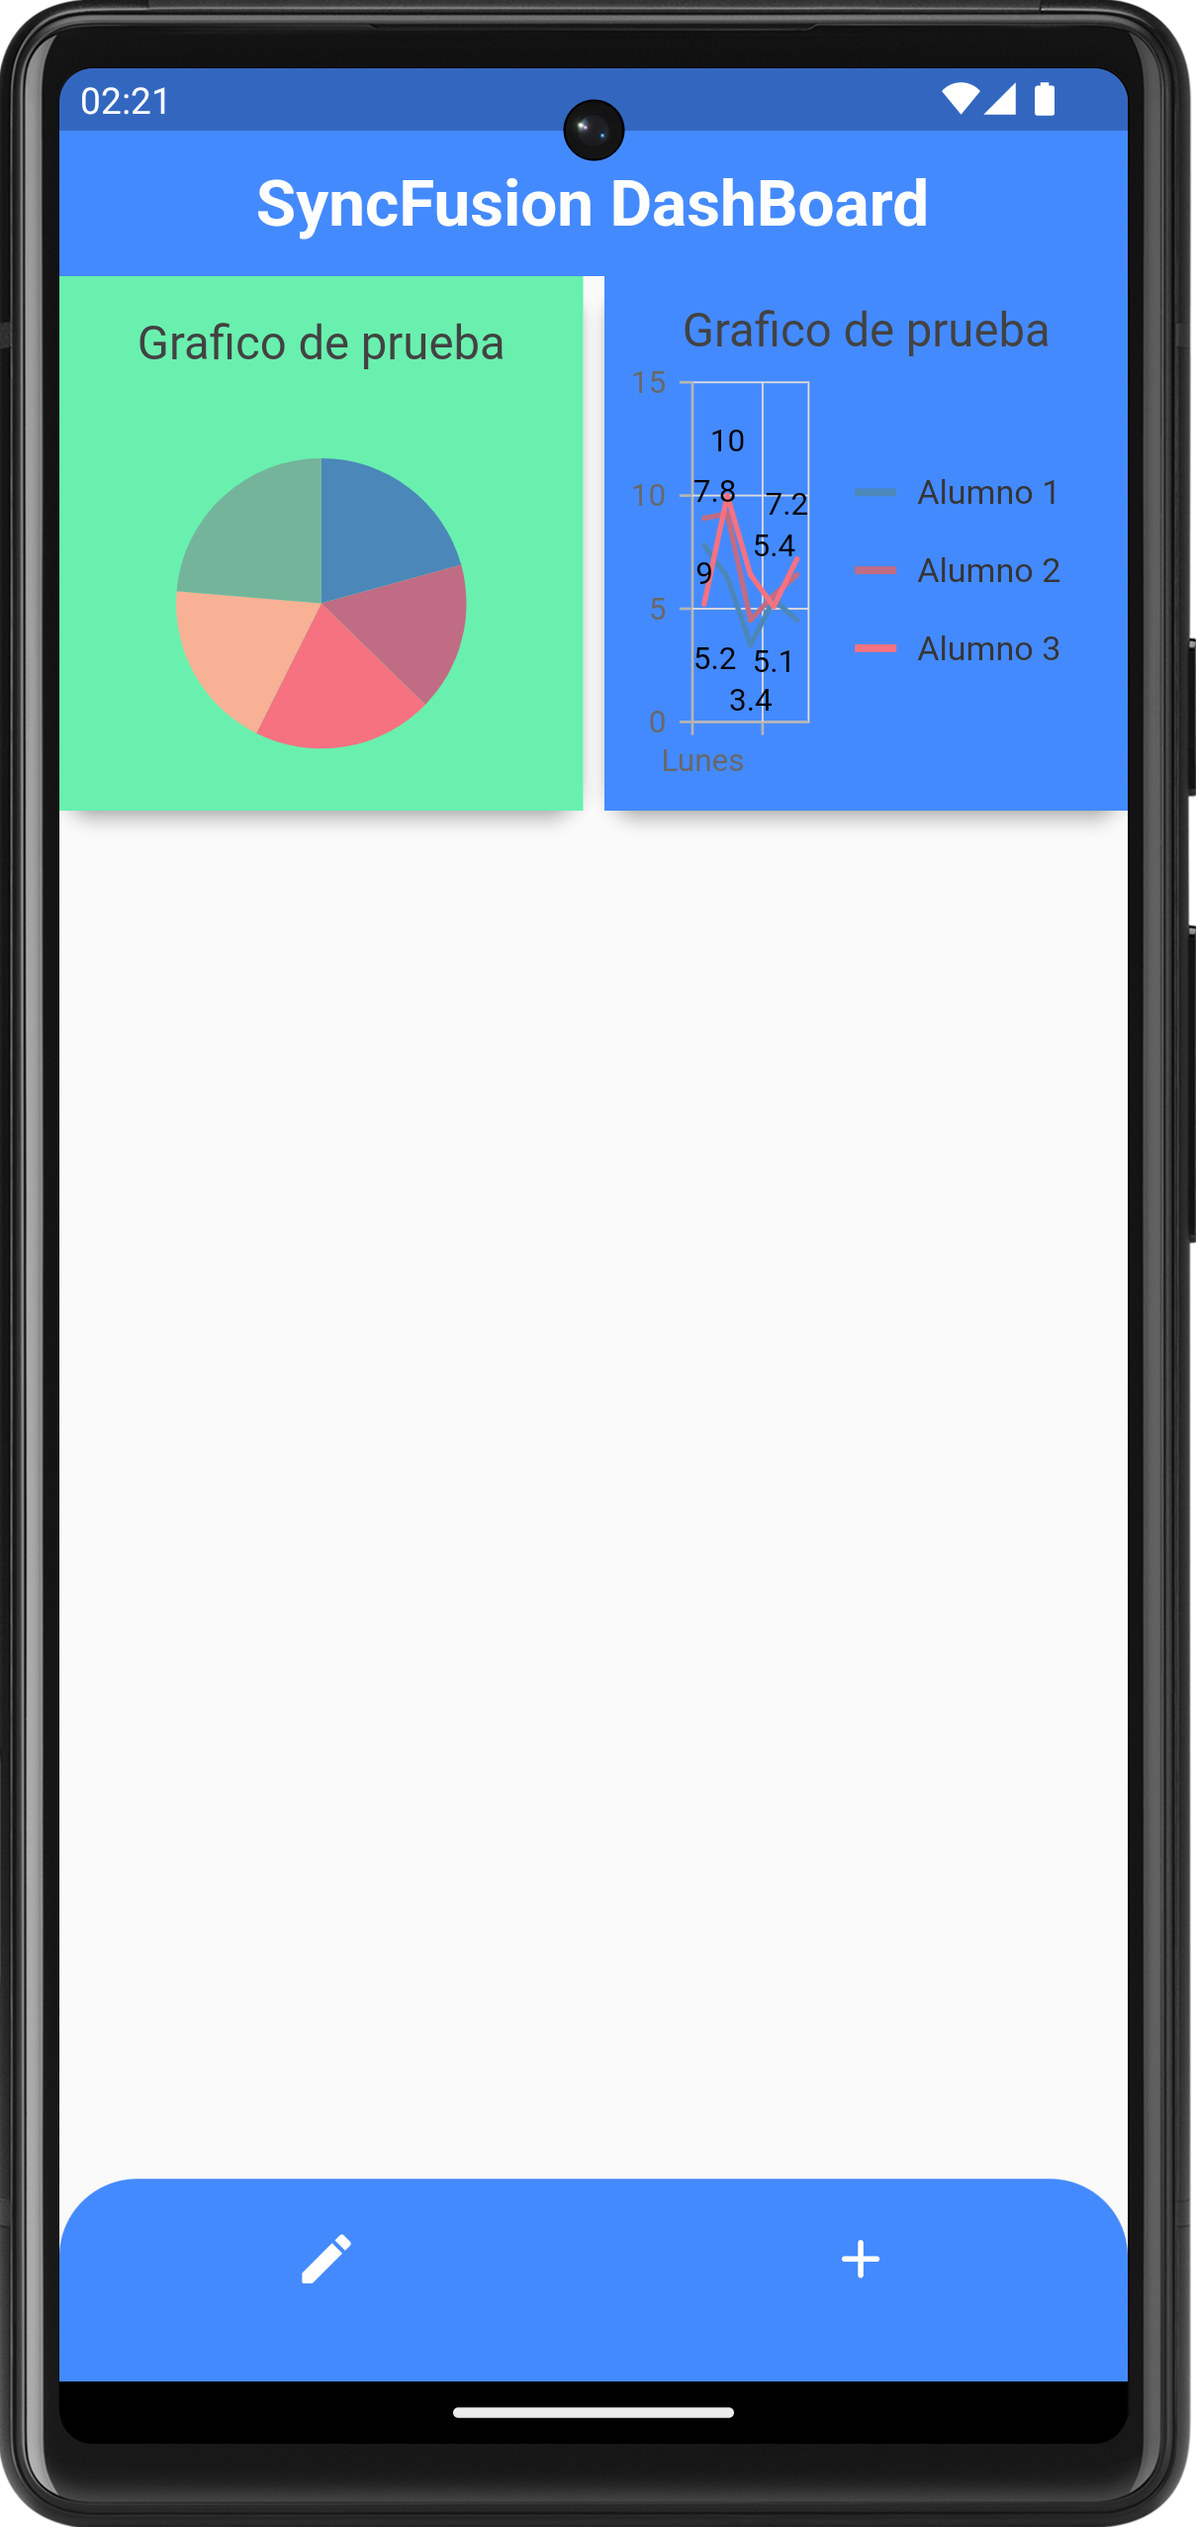
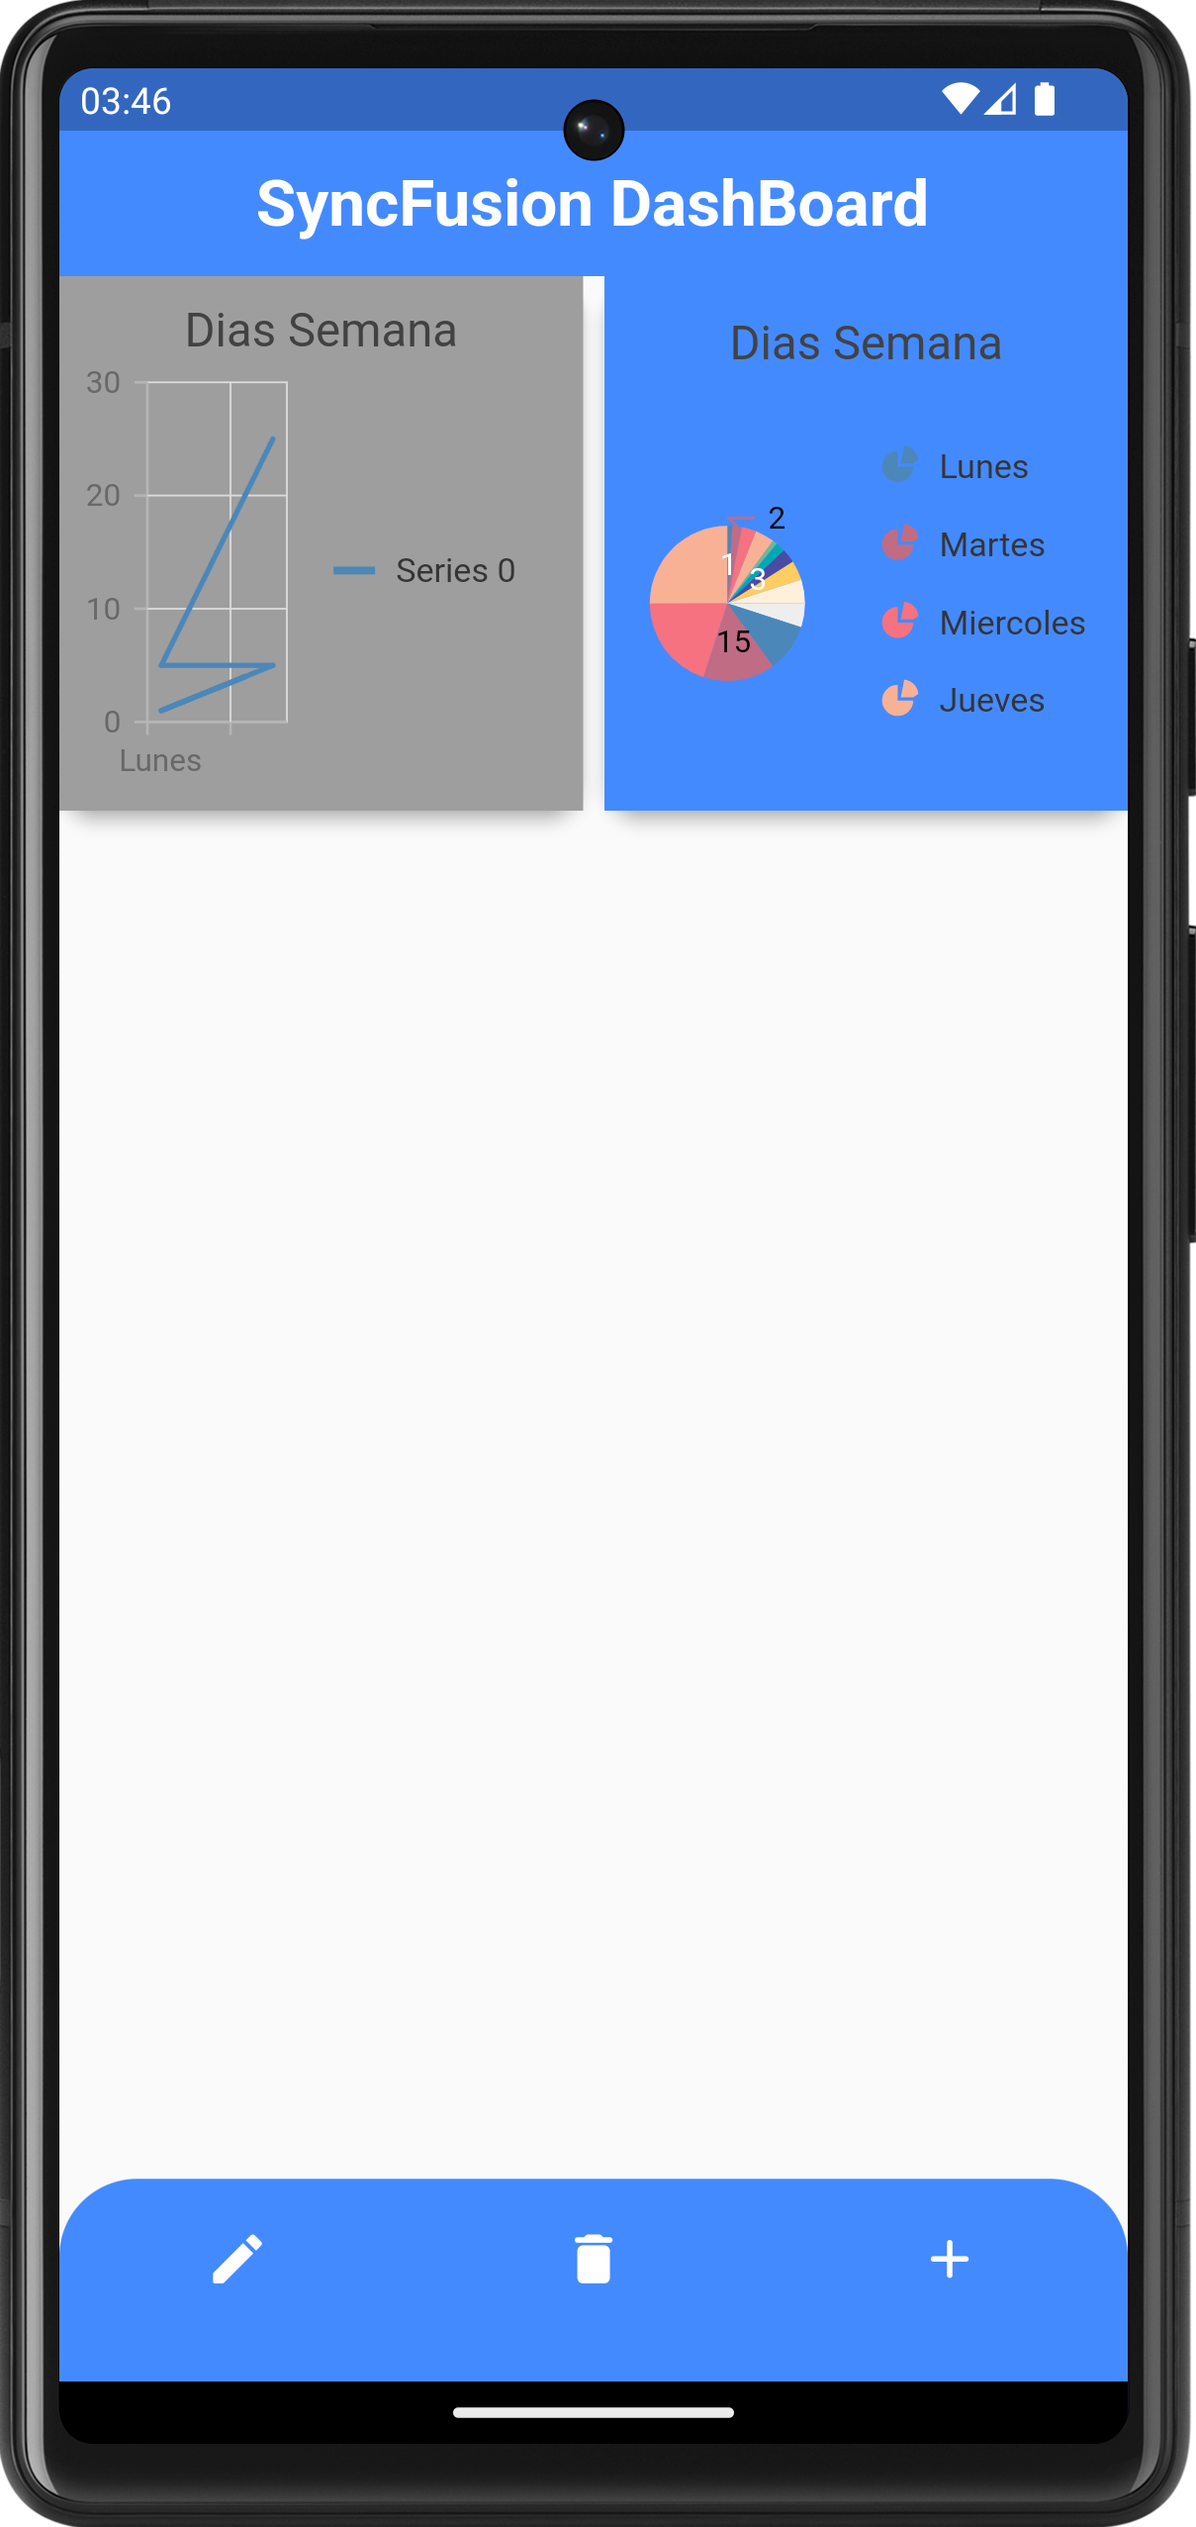
Initial support for creating widgets with custom data

diff --git a/lib/view/dashboard/widgets/propertiesDialog.dart b/lib/view/dashboard/widgets/propertiesDialog.dart
@@ -286,7 +286,126 @@ class PropertiesDialog extends StatelessWidget{
                           ),
                         ),
 
+                        Container(
+                          width: double.maxFinite,
+                          height: height * 0.42,
+                          margin: EdgeInsets.only(top: height * 0.02, left: width * 0.05, right: width * 0.05),
+                          decoration: BoxDecoration(
+                              color: Colors.white.withOpacity(0.4),
+                              borderRadius: BorderRadius.circular(30)
+                          ),
+                          child: Column(
+                            children: [
+                              // Title
+                              SizedBox(height: height * 0.01,),
+                              const Text("Añadir Elemento", style: TextStyle(color: Colors.black, fontSize: 25, fontWeight: FontWeight.bold),),
+                              SizedBox(height: height * 0.02,),
+                              Row(
+                                children: [
+                                  // Left - x elements
+                                  SizedBox(
+                                    width: width * 0.31,
+                                    height: height * 0.2,
+                                    child : ListView.builder(
+                                      itemCount: viewModel.xElements.length,
+                                      itemBuilder: (context, index){
+                                        return Container(
+                                          width: width * 0.31,
+                                          height: height * 0.07,
+                                          margin: EdgeInsets.only(left: width * 0.025, right: width * 0.05),
+                                          child: TextField(
+                                            textAlign: TextAlign.center,
+                                            decoration: InputDecoration(
+                                                filled: true,
+                                                fillColor: Colors.white
+                                              ),
+                                              controller: viewModel.xElements[index],
+                                              keyboardType: TextInputType.text,
+                                            ),
+                                        );
+                                      }
+                                    ),
+                                  ),
 
+                                  SizedBox(
+                                    width: width * 0.27,
+                                    height: height * 0.2,
+                                    child : ListView.builder(
+                                      itemCount: viewModel.yElements.length,
+                                      itemBuilder: (context, index){
+                                        return Container(
+                                          width: width * 0.27,
+                                          height: height * 0.07,
+                                          margin: EdgeInsets.only(right: width * 0.025),
+                                          child: TextField(
+                                            textAlign: TextAlign.center,
+                                            decoration: InputDecoration(
+                                                  filled: true,
+                                                  fillColor: Colors.white
+                                              ),
+                                              controller: viewModel.yElements[index],
+                                              keyboardType: TextInputType.text,
+                                            ),
+                                        );
+                                      }
+                                    ),
+                                  ),
+
+                                ],
+                              ),
+
+                              SizedBox(height: height * 0.02,),
+
+                              Container(
+                                width: double.maxFinite,
+                                height: height * 0.05,
+                                margin: EdgeInsets.only(left: width * 0.02, right: width * 0.02),
+                                child: ClipRRect(
+                                  borderRadius: BorderRadius.circular(30),
+                                  child : TextButton(
+                                    style: TextButton.styleFrom(
+                                      backgroundColor: Colors.green,
+                                    ),
+                                    onPressed : (){
+                                      // Add one more row to both controllers
+                                      viewModel.xElements.add(TextEditingController(text: ""));
+                                      viewModel.yElements.add(TextEditingController(text: ""));
+                                      viewModel.notifyListeners();
+                                      // Just force refresh inside alertdialog to display changes
+                                      (context as Element).reassemble();
+                                    },
+                                    child: const Text("Añadir fila", style: TextStyle(color: Colors.white, fontWeight: FontWeight.bold, fontSize: 20), textAlign: TextAlign.center,),
+                                ),
+                                ),
+                              ),
+
+                              SizedBox(height: height * 0.01,),
+
+                              Container(
+                                width: double.maxFinite,
+                                height: height * 0.05,
+                                margin: EdgeInsets.only(left: width * 0.02, right: width * 0.02),
+                                child: ClipRRect(
+                                  borderRadius: BorderRadius.circular(30),
+                                  child : TextButton(
+                                    style: TextButton.styleFrom(
+                                      backgroundColor: Colors.red,
+                                    ),
+                                    onPressed : (){
+                                      // Add one more row to both controllers
+                                      viewModel.xElements.removeAt(viewModel.xElements.length - 1);
+                                      viewModel.yElements.removeAt(viewModel.yElements.length - 1);
+                                      viewModel.notifyListeners();
+                                      // Just force refresh inside alertdialog to display changes
+                                      (context as Element).reassemble();
+                                    },
+                                    child: const Text("Borrar fila", style: TextStyle(color: Colors.white, fontWeight: FontWeight.bold, fontSize: 20), textAlign: TextAlign.center,),
+                                  ),
+                                ),
+                              ),
+                            ],
+                          ),
+                        ),
 
                         Container(
                           width: double.maxFinite,

diff --git a/lib/view/dashboard/dashboard_viewmodel.dart b/lib/view/dashboard/dashboard_viewmodel.dart
@@ -7,6 +7,7 @@ import '../../data/model/sync_fusion_items/sync_fusion_widget_item.dart';
 import '../../data/model/sync_fusion_items/sync_fusion_widget_item_options.dart';
 import '../../data/model/sync_fusion_widgets/widgets/circular_chart.dart';
 import '../../data/model/sync_fusion_widgets/widgets/cartesian_chart.dart';
+import '../../data/model/sync_fusion_widgets/widgets/chartData.dart';
 
 class DashboardViewModel extends BaseViewModel implements Initialisable {
   DashboardItemController<SyncFusionWidget> dashboardItemController =
@@ -29,7 +30,21 @@ class DashboardViewModel extends BaseViewModel implements Initialisable {
   String selectedWidgetID = "";
   List<String> selectedWidgetsID = [];
   bool editModeEnabled = false;
+  List<TextEditingController> xElements = [
+    TextEditingController(text: ""),
+    TextEditingController(text: ""),
+    TextEditingController(text: ""),
+    TextEditingController(text: ""),
 
+  ];
+  List<TextEditingController> yElements = [
+    TextEditingController(text: ""),
+    TextEditingController(text: ""),
+    TextEditingController(text: ""),
+    TextEditingController(text: ""),
+  ];
+
+  List<ChartData> rawlist = [];
 
   List<DropdownMenuItem<int>> widthValues = [
     DropdownMenuItem(child: Text("0"),value: 0),
@@ -69,13 +84,16 @@ class DashboardViewModel extends BaseViewModel implements Initialisable {
   getWidget(){
     if(selectedWidget == "Circular Chart") {
       return CircularChart (
-      backgroundColor,
-      title
+        rawlist,
+        backgroundColor,
+        title,
+
     );
     } else if (selectedWidget == "Cartesian Chart"){
       return CartesianChart (
+          rawlist,
           backgroundColor,
-          title
+          title,
       );
     }
   }
@@ -92,7 +110,25 @@ class DashboardViewModel extends BaseViewModel implements Initialisable {
     );
   }
 
+  createDataList() async {
+    // A method to combine both TextEditingController lists
+    // Into a data list for the target widget
+
+    if (selectedWidget == "Circular Chart"){
+      int counter = 0;
+
+      while(counter < xElements.length){
+        ChartData currentRow = ChartData(xElements[counter].text, int.parse(yElements[counter].text));
+        rawlist.add(currentRow);
+        counter ++;
+      }
+      counter = 0;
+      notifyListeners();
+    }
+  }
+
   addWidgetToDashBoard() async {
+    await createDataList();
     SyncFusionWidget current = await createWidget();
     try{
       dashboardItemController.add(current); // First, create widget with given attributes
@@ -103,7 +139,11 @@ class DashboardViewModel extends BaseViewModel implements Initialisable {
 
   deleteSelectedWidget() {
     // This method rmeoves current widget from controller
-    dashboardItemController.delete(selectedWidgetID);
+
+    for (String id in selectedWidgetsID){
+      dashboardItemController.delete(id);
+    }
+
     selectedWidgetID = "";
     selectedWidgetsID = [];
     notifyListeners();

diff --git a/lib/data/model/sync_fusion_widgets/widgets/cartesian_chart.dart b/lib/data/model/sync_fusion_widgets/widgets/cartesian_chart.dart
@@ -1,64 +1,32 @@
 import 'package:flutter/cupertino.dart';
 import 'package:syncfusion_flutter_charts/charts.dart';
 import 'package:flutter/material.dart';
+import 'chartData.dart';
 
 class CartesianChart extends StatelessWidget{
   @override
-  const CartesianChart([this.backgroundColor =  Colors.white, this.title = "Titulo por defecto" ] );
+  const CartesianChart(this.list, [this.backgroundColor =  Colors.white, this.title = "Titulo por defecto"] );
 
   final Color backgroundColor;
   final String title;
+  final List<ChartData> list;
 
   @override
   Widget build (BuildContext context){
-
-    final List<_CartesianData> data = <_CartesianData> [
-      _CartesianData("Lunes", 7.8, 9.0, 5.2),
-      _CartesianData("Martes", 6.4, 9.2, 10.0),
-      _CartesianData("Miercoles", 3.4, 4.5, 6.5),
-      _CartesianData("Jueves", 5.4, 5.6, 5.1),
-      _CartesianData("Viernes", 4.5, 6.5, 7.2),
-    ];
 
     return  SfCartesianChart(
       backgroundColor: backgroundColor,
       title: ChartTitle(text: title),
       legend: Legend(isVisible: true),
       primaryXAxis: CategoryAxis(),
-      series: <LineSeries<_CartesianData, String>>[
-      LineSeries(
-      enableTooltip: true,
-      dataSource: data,
-      name : "Alumno 1",
-      xValueMapper: (_CartesianData alumnoUno,  _) => alumnoUno.x ,
-      yValueMapper: (_CartesianData alumnoUno, _) => alumnoUno.y,
-      dataLabelSettings: const DataLabelSettings(isVisible: true),
-      ),
-      LineSeries(
-      enableTooltip: true,
-      dataSource: data,
-      name: "Alumno 2",
-      xValueMapper: (_CartesianData alumnoDos, _) => alumnoDos.x,
-      yValueMapper: (_CartesianData alumnoDos, _) => alumnoDos.y2,
-      dataLabelSettings: const DataLabelSettings(isVisible: true),
-      ),
-      LineSeries(
-      enableTooltip: true,
-      dataSource: data,
-      name: "Alumno 3",
-      xValueMapper: (_CartesianData alumnoTres, _) => alumnoTres.x,
-      yValueMapper: (_CartesianData alumnoTres, _) => alumnoTres.y3,
-      dataLabelSettings: const DataLabelSettings(isVisible: true),
-      ),
+      series: <ChartSeries>[
+        // Initialize line series
+        LineSeries<ChartData, String>(
+          dataSource: list,
+          xValueMapper: (ChartData data, _) => data.x,
+          yValueMapper: (ChartData data, _) => data.y,
+        )
       ],
     );
   }
-}
-
-class _CartesianData{
-  _CartesianData(this.x, this.y, this.y2, this.y3);
-  final String x;
-  final double y;
-  final double y2;
-  final double y3;
 }

diff --git a/lib/data/model/sync_fusion_widgets/widgets/circular_chart.dart b/lib/data/model/sync_fusion_widgets/widgets/circular_chart.dart
@@ -1,14 +1,16 @@
 import 'package:flutter/material.dart';
 import 'package:syncfusion_flutter_charts/charts.dart';
+import 'chartData.dart';
 
 class CircularChart extends StatelessWidget{
   @override
   CircularChart(
-  [this.backgroundColor = Colors.white,
+      this.list, [this.backgroundColor = Colors.white,
     this.title = "Titulo por defecto"]);
 
   final Color backgroundColor;
   final String title;
+  final List<ChartData> list;
 
   @override
   Widget build(BuildContext context) {
@@ -21,19 +23,14 @@ class CircularChart extends StatelessWidget{
                   backgroundColor: backgroundColor,
                   // Chart title text
                     title: ChartTitle(text: title),
+                    legend: Legend(isVisible: true),
                     series: <CircularSeries>[
                       // Render pie chart
                       PieSeries<ChartData, String>(
-                          dataSource: [
-                            // Bind data source
-                            ChartData('Jan', 35),
-                            ChartData('Feb', 28),
-                            ChartData('Mar', 34),
-                            ChartData('Apr', 32),
-                            ChartData('May', 40)
-                          ],
+                          dataSource: list,
                           xValueMapper: (ChartData data, _) => data.x,
-                          yValueMapper: (ChartData data, _) => data.y
+                          yValueMapper: (ChartData data, _) => data.y,
+                          dataLabelSettings:DataLabelSettings(isVisible : true)
                       )
                     ]
                 )
@@ -41,12 +38,4 @@ class CircularChart extends StatelessWidget{
         )
     );
   }
-}
-
-class ChartData{
-  ChartData(this.x,this.y);
-
-  final String x;
-  final int y;
-  
 }

diff --git a/lib/data/model/sync_fusion_widgets/widgets/chartData.dart b/lib/data/model/sync_fusion_widgets/widgets/chartData.dart
@@ -1,0 +1,7 @@
+class ChartData{
+  ChartData(this.x,this.y);
+
+  final String x;
+  final int y;
+
+}

diff --git a/README.md b/README.md
@@ -8,6 +8,7 @@ DashBoard sobre el que dibujar widgets de syncFusion customizados
 
 # Dialog (Personalización del componente)
 <img src="screens/screen_dialog.png" width="200" height="400">
+<img src="screens/screen_dialog_2.png" width="200" height="400">
 
 # Home (Con Widgets)
 <img src="screens/screen_home_widgets.png" width="200" height="400">
